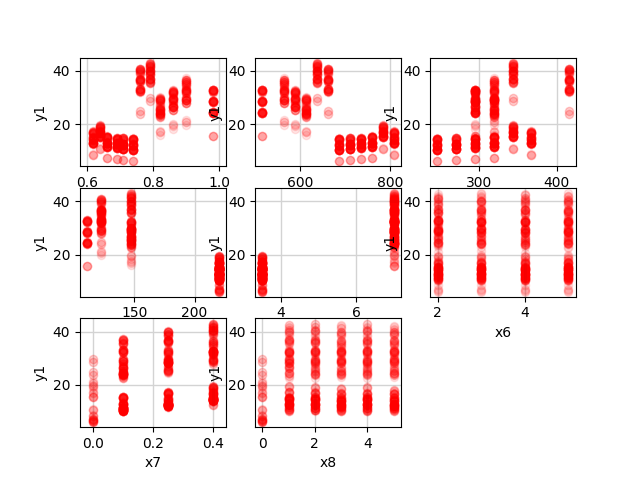
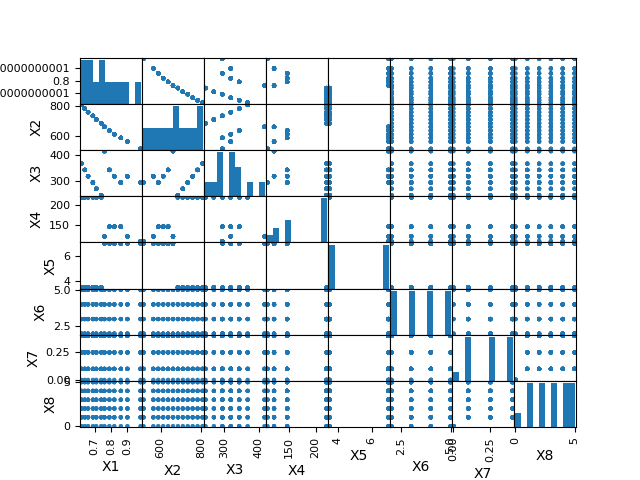
OOP is designed, now we can plot x-x figures as well

diff --git a/Data.py b/Data.py
@@ -1,0 +1,33 @@
+import pandas as pd
+import numpy as np
+import matplotlib.pyplot as plt
+
+class Data:
+    x_values = []
+    y_values = []
+    x = None
+    y = None
+    fig = plt.figure()
+
+    def __init__(self,x,y):
+        self.x = x
+        self.y = y
+        self.x_values = x.values
+        self.y_values = y.values
+
+    def plotInputScatterMatrix(self):
+        pd.plotting.scatter_matrix(self.x,alpha=0.5,marker='.')
+
+    def plotData(self,x,y,subplotNumber):
+        ax = self.fig.add_subplot(331+subplotNumber)
+        ax.grid(color='lightgray', linestyle='-', linewidth=1)
+        ax.set_axisbelow(True)
+        ax.scatter(x, y,color='red', alpha=.1, s=140, marker='.')
+        ax.set_xlabel('x'+str(subplotNumber+1))
+        ax.set_ylabel('y1')
+        plt.savefig('plot_scatter2D.png')
+
+    def plotAllInputOutput(self):
+        for i in range(8):
+            self.plotData(self.x_values[:,i],self.y_values[:,0],i)
+        plt.show()

diff --git a/main.py b/main.py
@@ -1,0 +1,20 @@
+import Data
+import pandas as pd
+
+InputOutputVariables = ["Relative Compactness", "Surface Area", "Wall Area" ,
+                        "Roof Area" ,"Overall Height","Orientation" ,"Glazing area",
+                        "Glazing area distribution","Heating Load","Cooling Load"]
+data =None
+
+def loadData():
+    global data
+    # Load the data from the comma-separated csv file. 
+    df = pd.read_csv("ENB2012_data.csv")
+    x = df.loc[: , 'X1':'X8']
+    y = df.loc[: ,'Y1':'Y2']
+    data = Data.Data(x,y)
+
+loadData()
+data.plotInputScatterMatrix()
+data.plotAllInputOutput()
+
